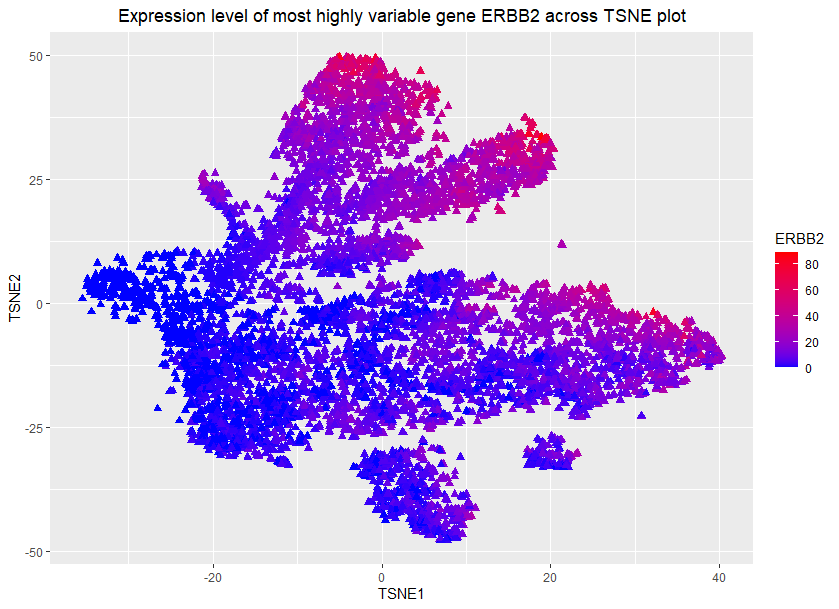
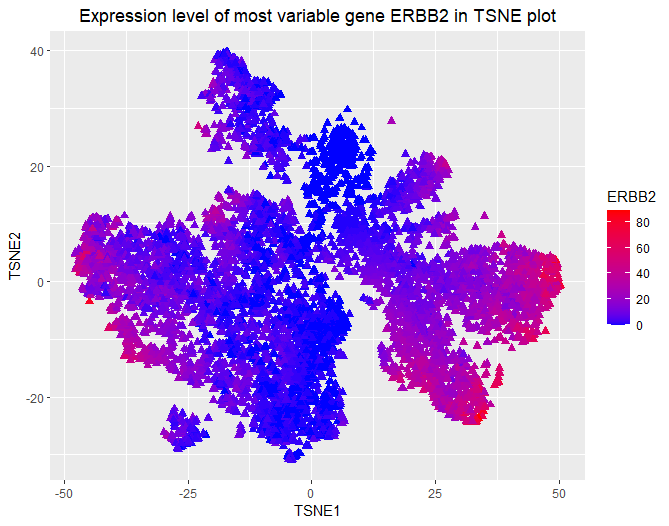
wendy added HW1

diff --git a/_posts/2023-01-27-rwu26.md b/_posts/2023-01-27-rwu26.md
@@ -1,6 +1,6 @@
 ---
 layout: post
-title:  "Expression level of most highly variable gene ERBB2 across TSNE plot"
+title:  "Expression level of the most variable gene ERBB2 in TSNE plot"
 author: Wendy Wu
 jhed: rwu26
 categories: [ HW1 ]
@@ -23,7 +23,6 @@ I am using the Gestalt principle of proximity to put my legends on the right sid
 ## Code
 
 ```{r}
-
 data <- read.csv('genomic-data-visualization-2023/data/charmander.csv.gz')
 library(Rtsne)
 library(ggplot2)
@@ -37,19 +36,17 @@ sorted <- sort(variances, decreasing = TRUE, index.return = TRUE)$ix[1]
 gene_of_interest <- colnames(data_matrix)[sorted]
 data_vis <- cbind(tsne_plot, data_matrix)
 
-ggplot(data_vis, aes(x = x, y = y)) +
-  geom_point(aes(color = gene_of_interest)) +
-  theme_classic() 
-
-data_vis_num <- matrix(as.numeric(data_vis))
 
 ggplot(data_vis, aes(x = x, y = y)) +
   geom_point(aes_string(fill = gene_of_interest, color=gene_of_interest), shape=24, size=2, stroke=0) +
   scale_fill_gradient(low="blue", high="red") +   
   scale_color_gradient(low="blue", high="red") +
-  ggtitle("Expression level of most highly variable gene ERBB2 across TSNE plot") + 
+  ggtitle("Expression level of most variable gene ERBB2 in TSNE plot") + 
   xlab("TSNE1") + ylab("TSNE2") +
   theme(plot.title = element_text(hjust = 0.5))
+  
+
+
 
 ```
 
